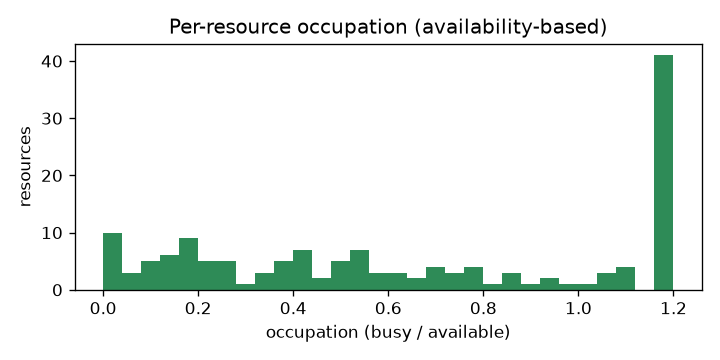
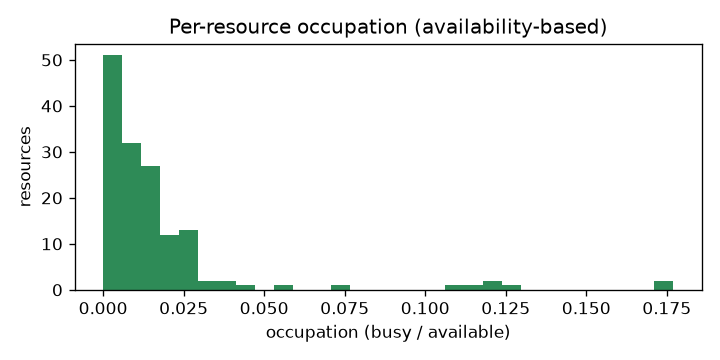
Metrics adjustments

diff --git a/optimization/metrics.py b/optimization/metrics.py
@@ -20,26 +20,39 @@ SECONDS_PER_WEEK = 7 * 24 * 3600
 
 # helpers
 def activity_durations(log_df: pd.DataFrame) -> pd.DataFrame:
-    #  Pair start/complete events per (case, activity, occurrence) -> durations.
+    #  Pair each "complete" with the MOST RECENT preceding "start"/"resume" of the
+    #  same (case, activity) work item, so busy time is the active segment only.
 
+    # A resumed activity is timed from its resume event: the suspend->resume gap is
+    # waiting, not busy. Real BPIC-17 work items look like start -> (suspend -> resume)*
+    # -> complete, so pairing the FIRST start with the complete (a plain per-occurrence
+    # cumcount merge) would fold every suspension into the "busy" span and inflate
+    # occupation; the simulator log emits resume -> complete without a "start" and is
+    # handled by the same rule. Instantaneous state events (only a "complete", e.g.
+    # A_/O_ activities) have no preceding open and are dropped.
     df = log_df[[CASE, ACT, RES, TS, LC]].copy()
     df[TS] = pd.to_datetime(df[TS], utc=True)
+    df = df[df[LC].isin(["start", "resume", "complete"])].sort_values(TS)
 
-    # Work begins at a "start" or "resume" event. In the simulator log a suspended
-    # activity emits suspend -> resume -> complete with no "start", so pairing only
-    # start<->complete would drop every resumed instance. The suspend->resume gap
-    # is waiting, not busy.
-    s = df[df[LC].isin(["start", "resume"])].sort_values(TS).copy()
-    c = df[df[LC] == "complete"].sort_values(TS).copy()
-    s["occ"] = s.groupby([CASE, ACT]).cumcount()
-    c["occ"] = c.groupby([CASE, ACT]).cumcount()
+    # Split the events of each (case, activity) into work-item sessions terminated by a
+    # "complete": cumsum of the completes, shifted so each complete shares the session id
+    # of the opens that precede it.
+    is_complete = df[LC] == "complete"
+    df["session"] = (
+        is_complete.groupby([df[CASE], df[ACT]]).cumsum() - is_complete.astype(int)
+    )
 
-    merged = s.merge(c, on=[CASE, ACT, "occ"], suffixes=("_s", "_c"))
-    merged["duration_s"] = (merged[f"{TS}_c"] - merged[f"{TS}_s"]).dt.total_seconds()
+    opens = df[df[LC].isin(["start", "resume"])]
+    comps = df[is_complete]
+    open_last = opens.groupby([CASE, ACT, "session"]).agg(
+        start=(TS, "last"), resource=(RES, "last")  # the resume (or start) that timed it
+    )
+    comp_first = comps.groupby([CASE, ACT, "session"]).agg(complete=(TS, "first"))
+
+    merged = open_last.join(comp_first, how="inner").reset_index()
+    merged["duration_s"] = (merged["complete"] - merged["start"]).dt.total_seconds()
     merged = merged[merged["duration_s"] >= 0]
-    return merged.rename(
-        columns={f"{RES}_s": "resource", f"{TS}_s": "start", f"{TS}_c": "complete"}
-    )[[CASE, ACT, "resource", "start", "complete", "duration_s"]]
+    return merged[[CASE, ACT, "resource", "start", "complete", "duration_s"]]
 
 
 def busy_seconds(dur: pd.DataFrame) -> pd.Series: